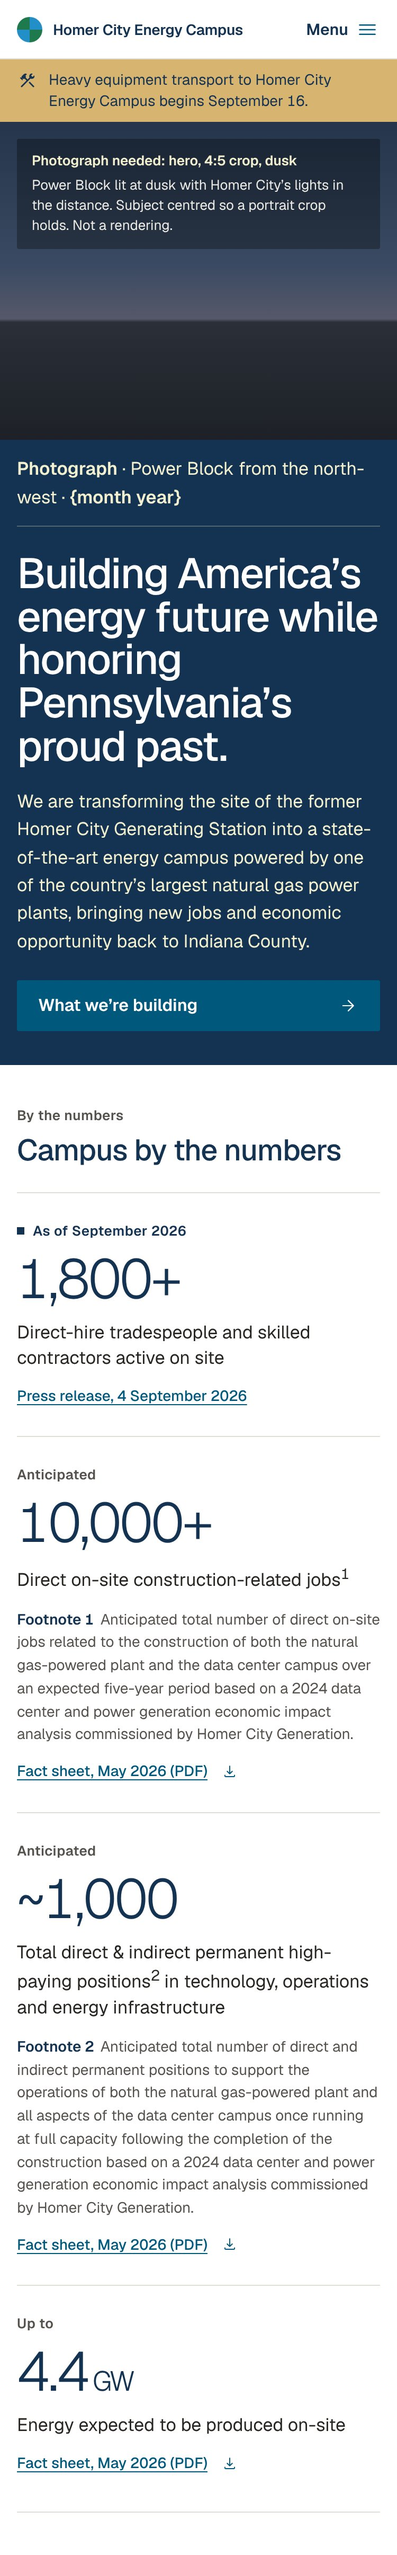
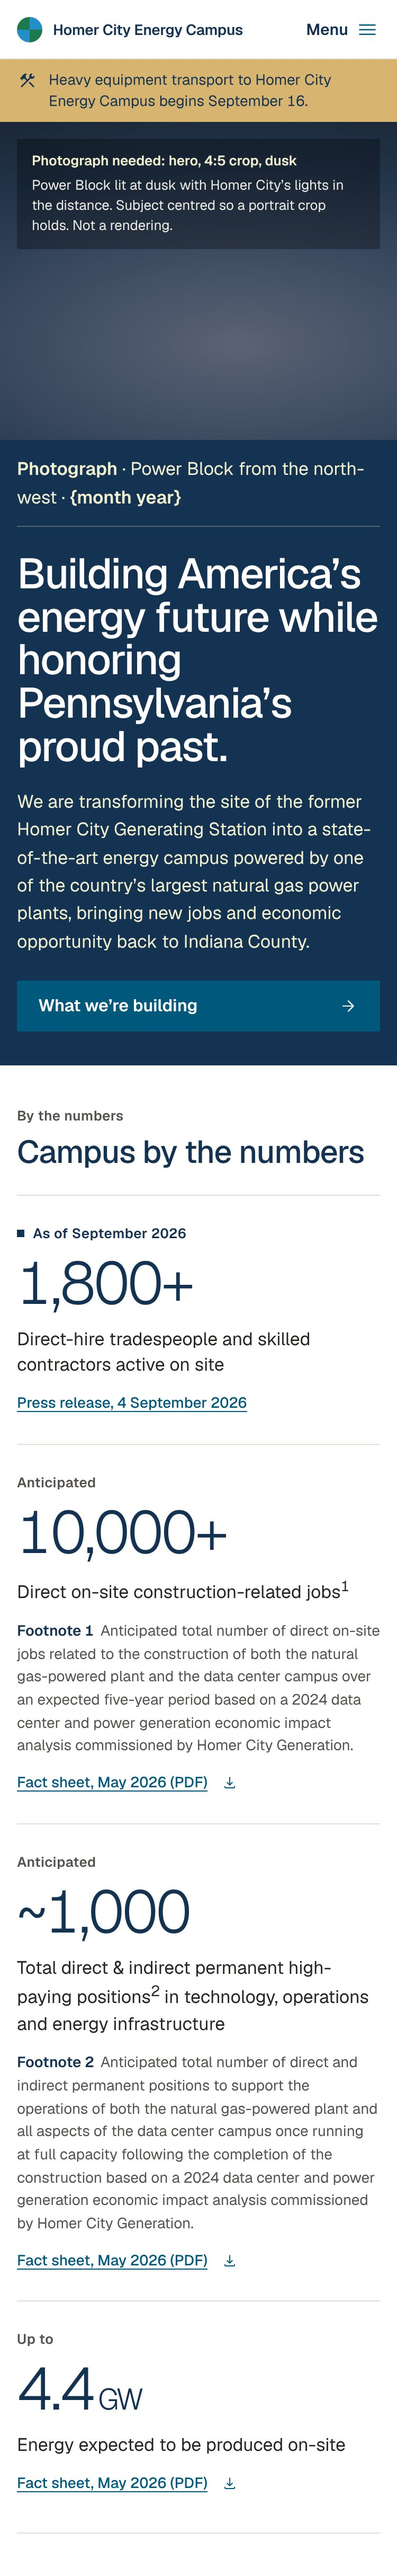
Direction briefs in progress
Claude-Session: https://claude.ai/code/session_01PMmsPdb8ds3YVaaGg7kg5J

diff --git a/brand-exploration/directions/01-evolution.md b/brand-exploration/directions/01-evolution.md
@@ -128,8 +128,10 @@ Hero 104 → 84 narrows the gap to the 68px ledger figure, so the ledger
 reads as the second voice of the page, not a footer to the hero. The locked
 homepage headline is 74 characters; at 104px it runs to five lines and
 pushes the intro off a 900px screen. On a phone the ledger figure goes *up*,
-44 → 56: the figures are the proof. Every size is an existing primitive
-except the 40px mobile hero, the one new step.
+44 → 56: the figures are the proof. Display sizes all reuse existing
+primitives; four odd steps are new (13 qualifier, 15 footnote, 17 phone
+body, 40 phone hero). They break the even-number habit on purpose: they are
+the reading sizes, tuned by eye at 375.
 
 ---
 
